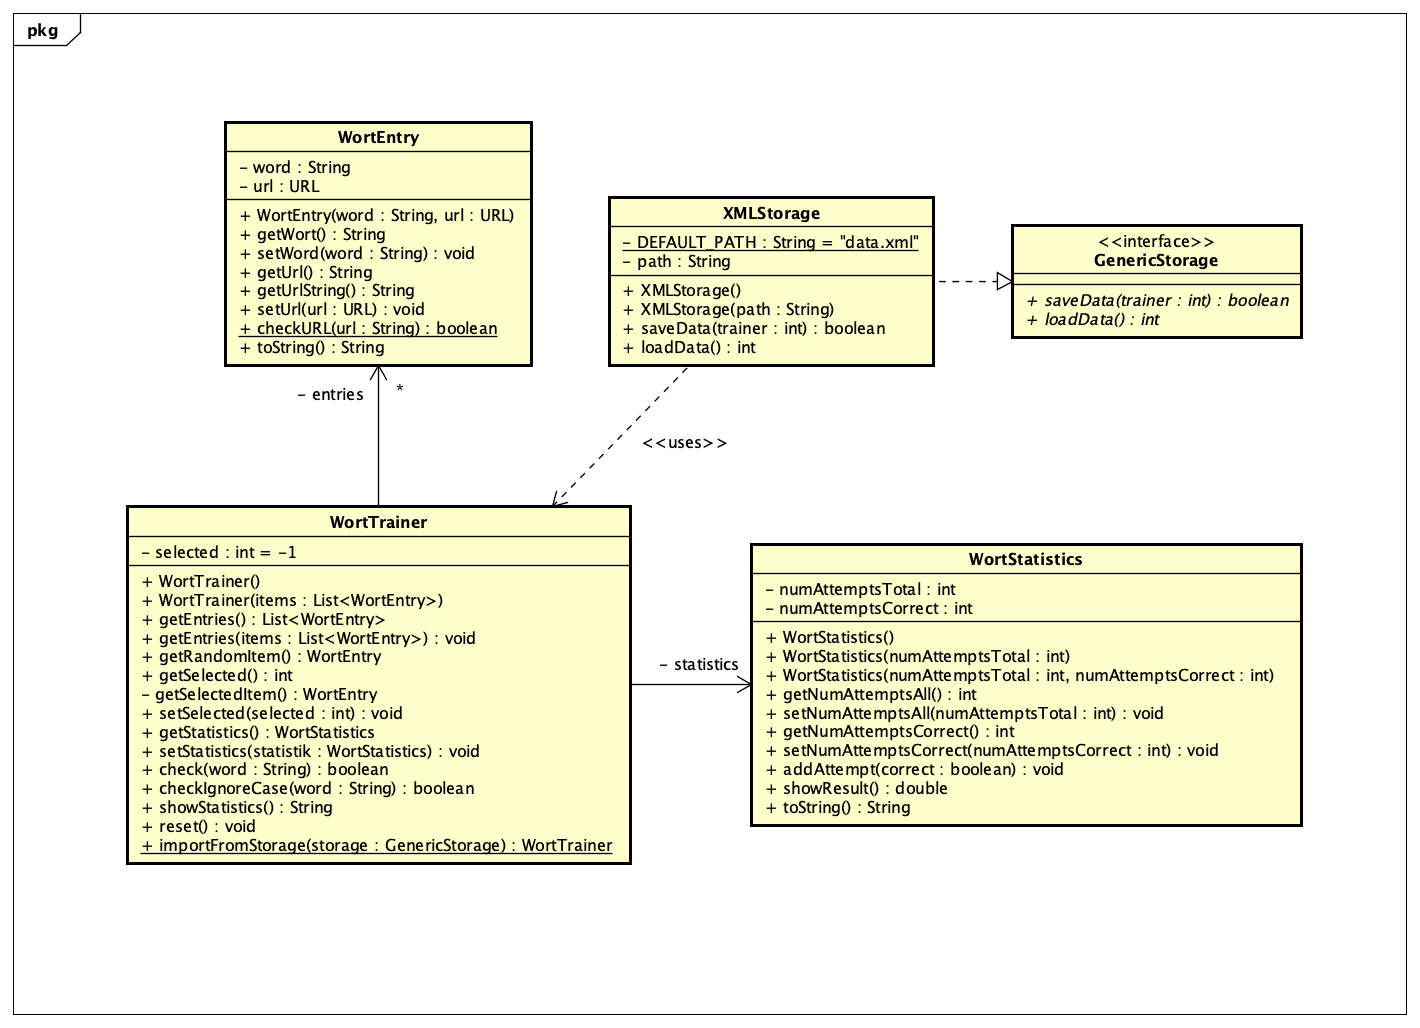
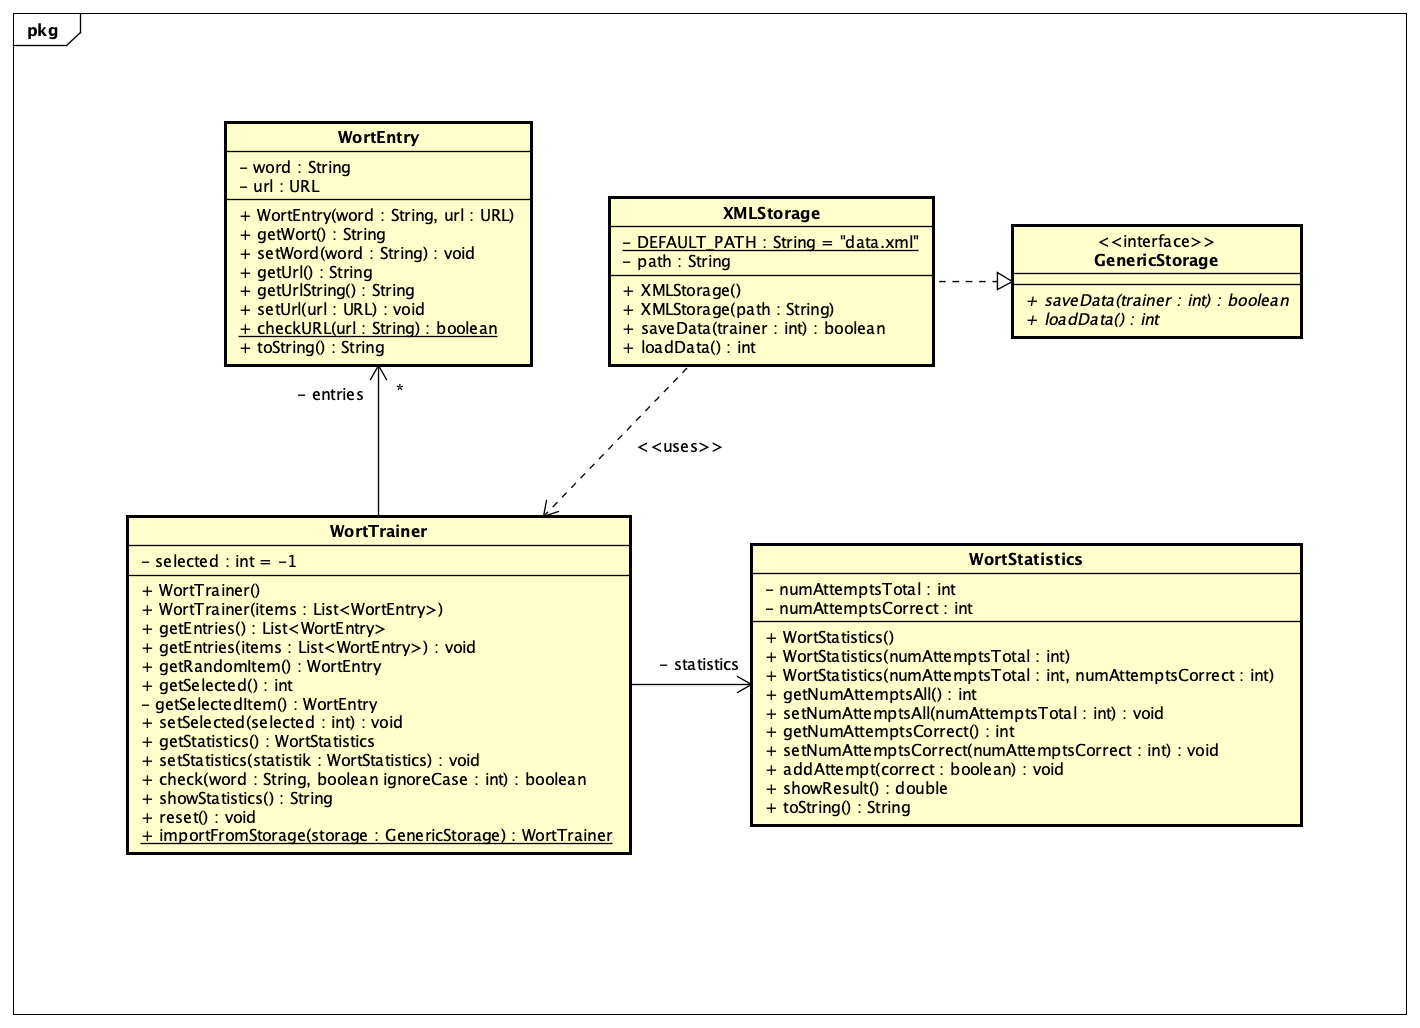
Remove `checkIgnoreCase`
The two check functions of `WortTrainer` can be merged into one, using a dedicated parameter to toggle whether the case shall be ignored or not when comparing the words.

Changed region(s): [[0.093, 0.4669, 0.4648, 0.8405], [0.4648, 0.4047, 0.4958, 0.4358]]

diff --git a/src/main/java/org/tgm/asuender/WortTrainer.java b/src/main/java/org/tgm/asuender/WortTrainer.java
@@ -118,7 +118,7 @@ public class WortTrainer {
      * @param word the word to be checked, must not be null and must be at least 2 characters long.
      * @return true if the word is equal to the selected item, false otherwise
      */
-    public boolean check(String word) {
+    public boolean check(String word, boolean ignoreCase) {
         if (word == null) {
             throw new NullPointerException("Das Wort darf kein Nullobjekt sein!");
         }
@@ -127,27 +127,8 @@ public class WortTrainer {
             throw new IllegalArgumentException("Das Wort muss mind. 2 Buchstaben lang sein!");
         }
 
-        boolean equal = this.getSelectedItem().getWord().equals(word);
-        this.statistics.addAttempt(equal);
-
-        return equal;
-    }
-
-    /**
-     * Checks the given word against the selected item, ignoring case.
-     * @param word the word to be checked, must not be null and must be at least 2 characters long.
-     * @return true if the word is equal to the selected item, false otherwise
-     */
-    public boolean checkIgnoreCase(String word) {
-        if (word == null) {
-            throw new NullPointerException("Das Wort darf kein Nullobjekt sein!");
-        }
-
-        if (word.trim().length() < 2) {
-            throw new IllegalArgumentException("Das Wort muss mind. 2 Buchstaben lang sein!");
-        }
-
-        boolean equal = this.getSelectedItem().getWord().equalsIgnoreCase(word);
+        String correctWord = this.getSelectedItem().getWord();
+        boolean equal = ignoreCase ? correctWord.equalsIgnoreCase(word) : correctWord.equals(word);
         this.statistics.addAttempt(equal);
 
         return equal;
